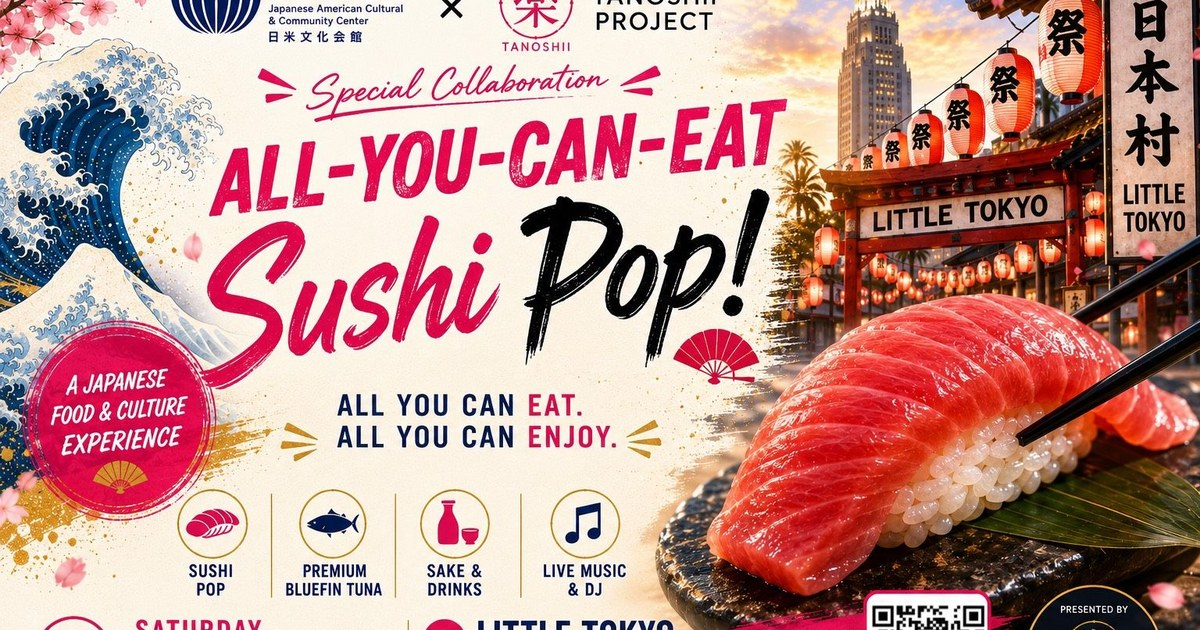
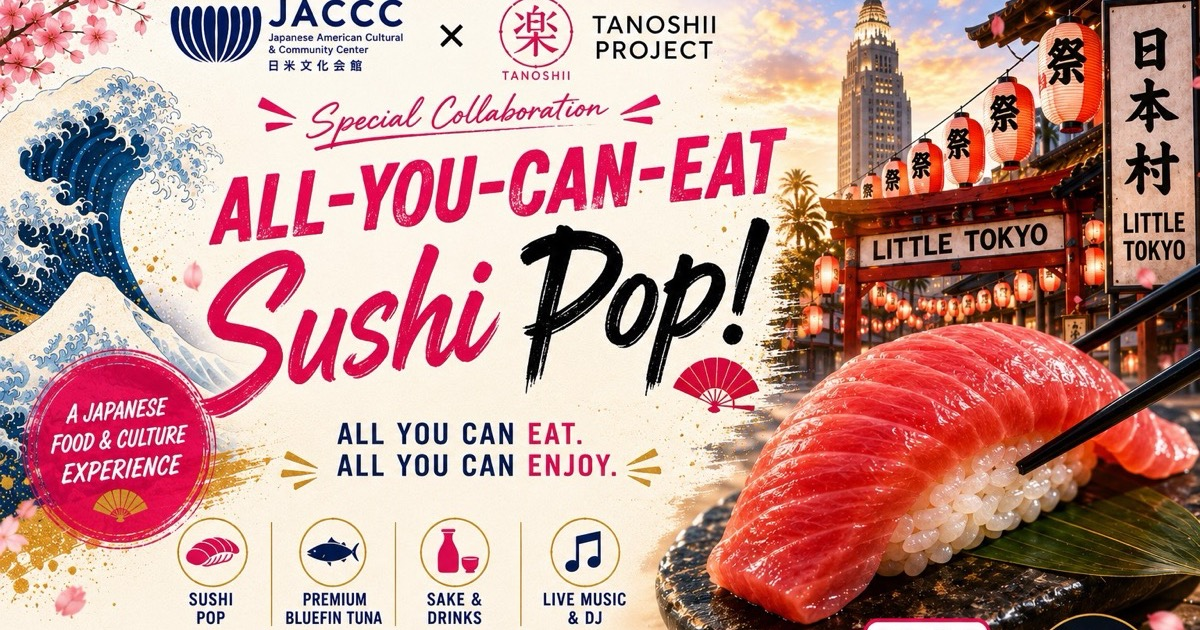
Sushi Pop: sync to latest official flyer
- Update OG share image to the latest landscape flyer (1200x630)
- Add a Drinks section: premium sake selection, Asahi beer, free barley tea and water
- Relabel the $55 tier as Senior and kids (65+ / ages 3-11) to match the flyer
- Specify barley tea in the free-drinks notes
Kept the venue name as 'Culinary Cultural Center' (correct order); the flyer header has it reversed.

diff --git a/events/sushi-pop.html b/events/sushi-pop.html
@@ -17,13 +17,13 @@
 <meta name="description" content="Sushi Pop, a Tanoshii Project and JACCC special collaboration. A 3-hour all-you-can-eat Japanese buffet. Saturday, August 22, 2026 at the Toshizo Watanabe Culinary Cultural Center, downstairs at the JACCC in Little Tokyo, Los Angeles.">
 <meta property="og:title" content="Sushi Pop · Tanoshii Project x JACCC · Sat, Aug 22, 2026">
 <meta property="og:description" content="A 3-hour all-you-can-eat Japanese buffet in Little Tokyo. Saturday August 22.">
-<meta property="og:image" content="https://www.tasteofjpn.com/assets/img/og-sushi-pop.jpg">
+<meta property="og:image" content="https://www.tasteofjpn.com/assets/img/og-sushi-pop.jpg?v=2">
 <meta property="og:image:width" content="1200">
 <meta property="og:image:height" content="630">
 <link rel="canonical" href="https://www.tasteofjpn.com/events/sushi-pop.html">
 <meta property="og:url" content="https://www.tasteofjpn.com/events/sushi-pop.html">
 <meta name="twitter:card" content="summary_large_image">
-<meta name="twitter:image" content="https://www.tasteofjpn.com/assets/img/og-sushi-pop.jpg">
+<meta name="twitter:image" content="https://www.tasteofjpn.com/assets/img/og-sushi-pop.jpg?v=2">
 <meta property="og:type" content="website">
 <link rel="preconnect" href="https://fonts.googleapis.com">
 <link rel="preconnect" href="https://fonts.gstatic.com" crossorigin>
@@ -201,8 +201,45 @@
       </div>
     </div>
 
-    <p class="menu-note reveal" data-delay="2" data-ja="お水とお茶は無料で、チケットは不要です。ドリンクチケットはお酒用で、追加は当日1杯 $5 から購入できます。">
-      Water and tea are free and need no ticket. Drink tickets are for alcohol, and extra ones start at $5.
+    <p class="menu-note reveal" data-delay="2" data-ja="麦茶とお水は無料で、チケットは不要です。ドリンクチケットはお酒用で、追加は当日1杯 $5 から購入できます。">
+      Barley tea and water are free and need no ticket. Drink tickets are for alcohol, and extra ones start at $5.
+    </p>
+  </div>
+</section>
+
+<!-- drinks -->
+<section class="section sp-drinks">
+  <div class="container">
+    <p class="eyebrow reveal" data-ja="お飲み物">Drinks</p>
+    <h2 class="section-title reveal" data-delay="1" data-ja="プレミアム日本酒と<br>ドリンクセレクション">Premium sake and<br>a drink selection</h2>
+    <p class="reveal" data-delay="2" data-ja="本格的な日本酒と、さまざまなお飲み物をご用意します。">Authentic Japanese sake and a wide variety of beverages.</p>
+
+    <div class="menu-grid reveal" data-delay="2">
+      <div class="menu-col">
+        <h3 data-ja="プレミアム日本酒">Premium sake</h3>
+        <ul>
+          <li data-ja="Sho-une Junmai Daiginjo">Sho-une Junmai Daiginjo</li>
+          <li data-ja="Sayuri Nigori">Sayuri Nigori</li>
+          <li data-ja="Hakutsuru Blanc">Hakutsuru Blanc</li>
+        </ul>
+      </div>
+      <div class="menu-col">
+        <h3 data-ja="ビール">Beer</h3>
+        <ul>
+          <li data-ja="アサヒ">Asahi</li>
+        </ul>
+      </div>
+      <div class="menu-col">
+        <h3 data-ja="無料・チケット不要">Free, no ticket</h3>
+        <ul>
+          <li data-ja="麦茶">Barley tea</li>
+          <li data-ja="お水">Water</li>
+        </ul>
+      </div>
+    </div>
+
+    <p class="menu-note reveal" data-delay="2" data-ja="日本酒とビールはドリンクチケットでお楽しみいただけます。麦茶とお水はイベント中ずっと無料です。追加のドリンクチケットは当日1杯 $5 から購入できます。">
+      Sake and beer are served with drink tickets. Barley tea and water are free throughout the event. Extra drink tickets start at $5 on the day.
     </p>
   </div>
 </section>
@@ -237,9 +274,9 @@
       </div>
 
       <div class="sp-tier is-senior">
-        <p class="tier-name" data-ja="シニア">Senior</p>
+        <p class="tier-name" data-ja="シニア・キッズ">Senior &amp; kids</p>
         <p class="tier-price"><sup>$</sup>55</p>
-        <p class="tier-ages" data-ja="65歳以上">Age 65+</p>
+        <p class="tier-ages" data-ja="65歳以上 / 3〜11歳">Age 65+ / kids 3 to 11</p>
         <ul class="tier-includes">
           <li data-ja="和食の食べ放題ビュッフェ">Unlimited Japanese buffet</li>
           <li data-ja="お酒は付きません">No drink tickets</li>
@@ -260,8 +297,8 @@
       </p>
     </div>
 
-    <p class="sp-free-note reveal" data-delay="3" data-ja="キッズ（3〜11歳）もシニアと同じ $55 です。お水とお茶はどのプランでも無料です。ドリンクチケットは当日1杯 $5 から追加購入できます。">
-      Kids age 3 to 11 are $55, the same as the senior pass. Water and tea are free on every pass. Extra drink tickets start at $5 on the day.
+    <p class="sp-free-note reveal" data-delay="3" data-ja="麦茶とお水はどのプランでも無料です。ドリンクチケットは当日1杯 $5 から追加購入できます。">
+      Barley tea and water are free on every pass. Extra drink tickets start at $5 on the day.
     </p>
 
     <div class="sp-meta-chips reveal" data-delay="3">
